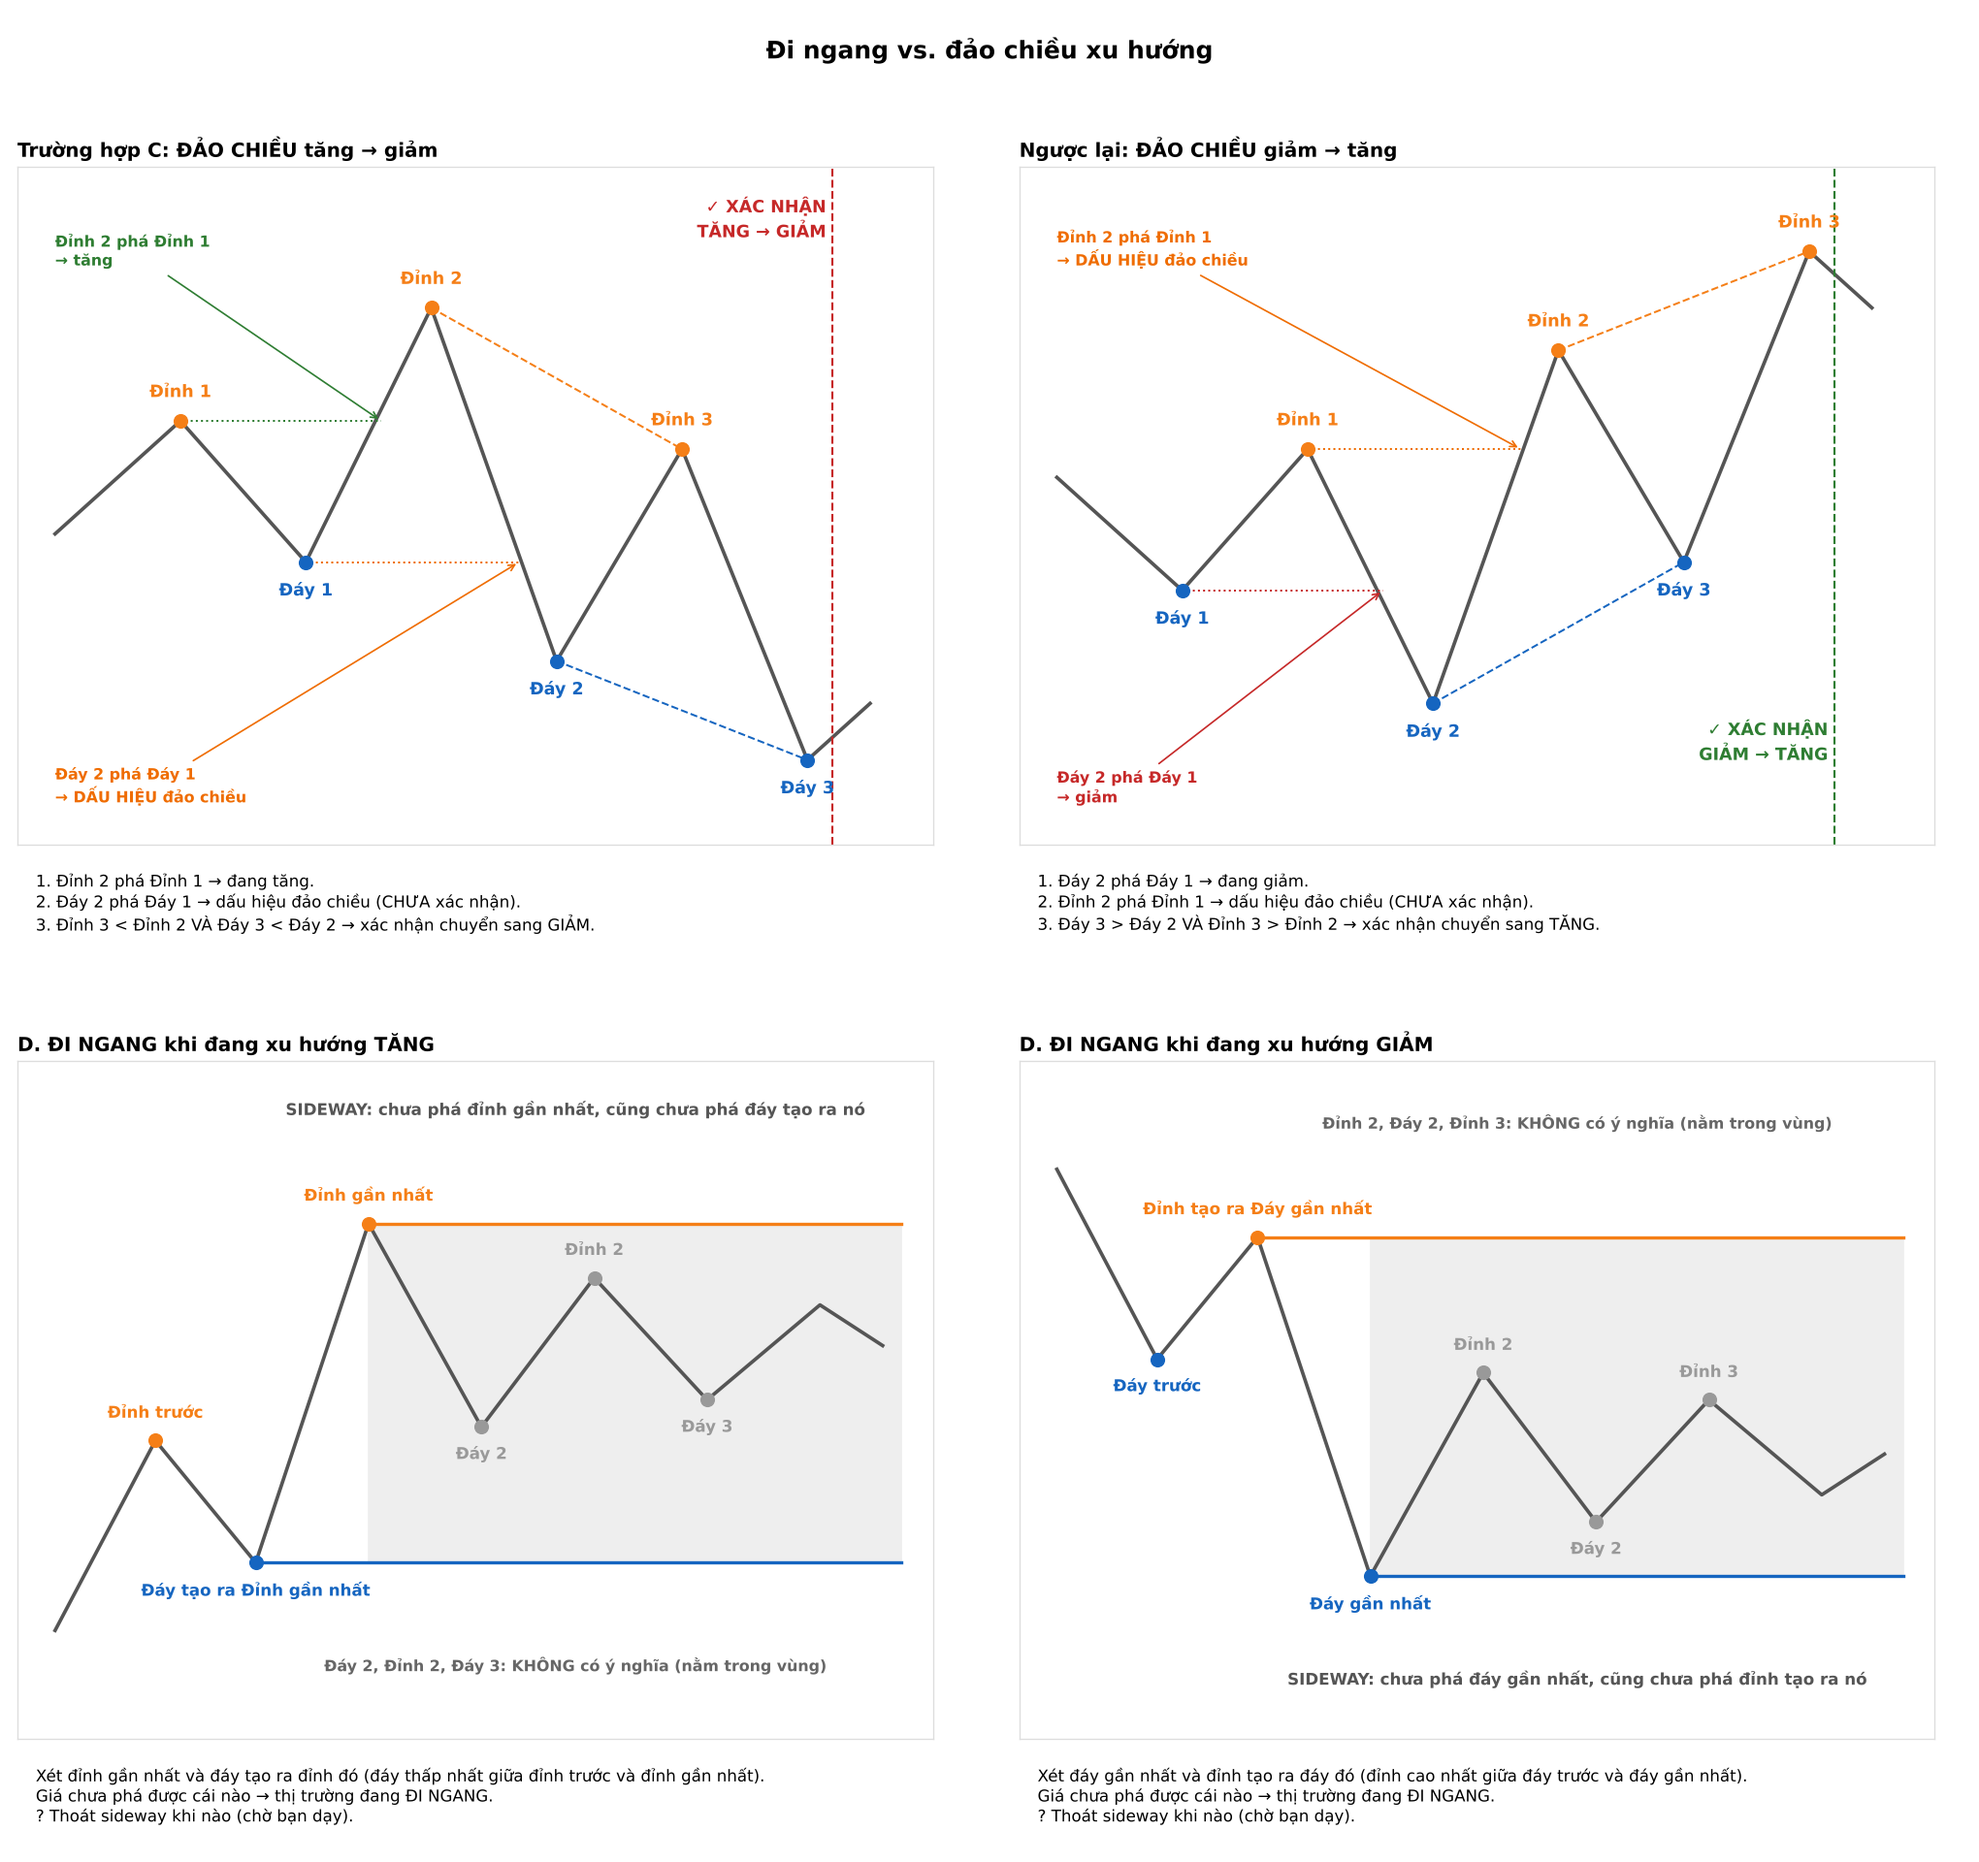
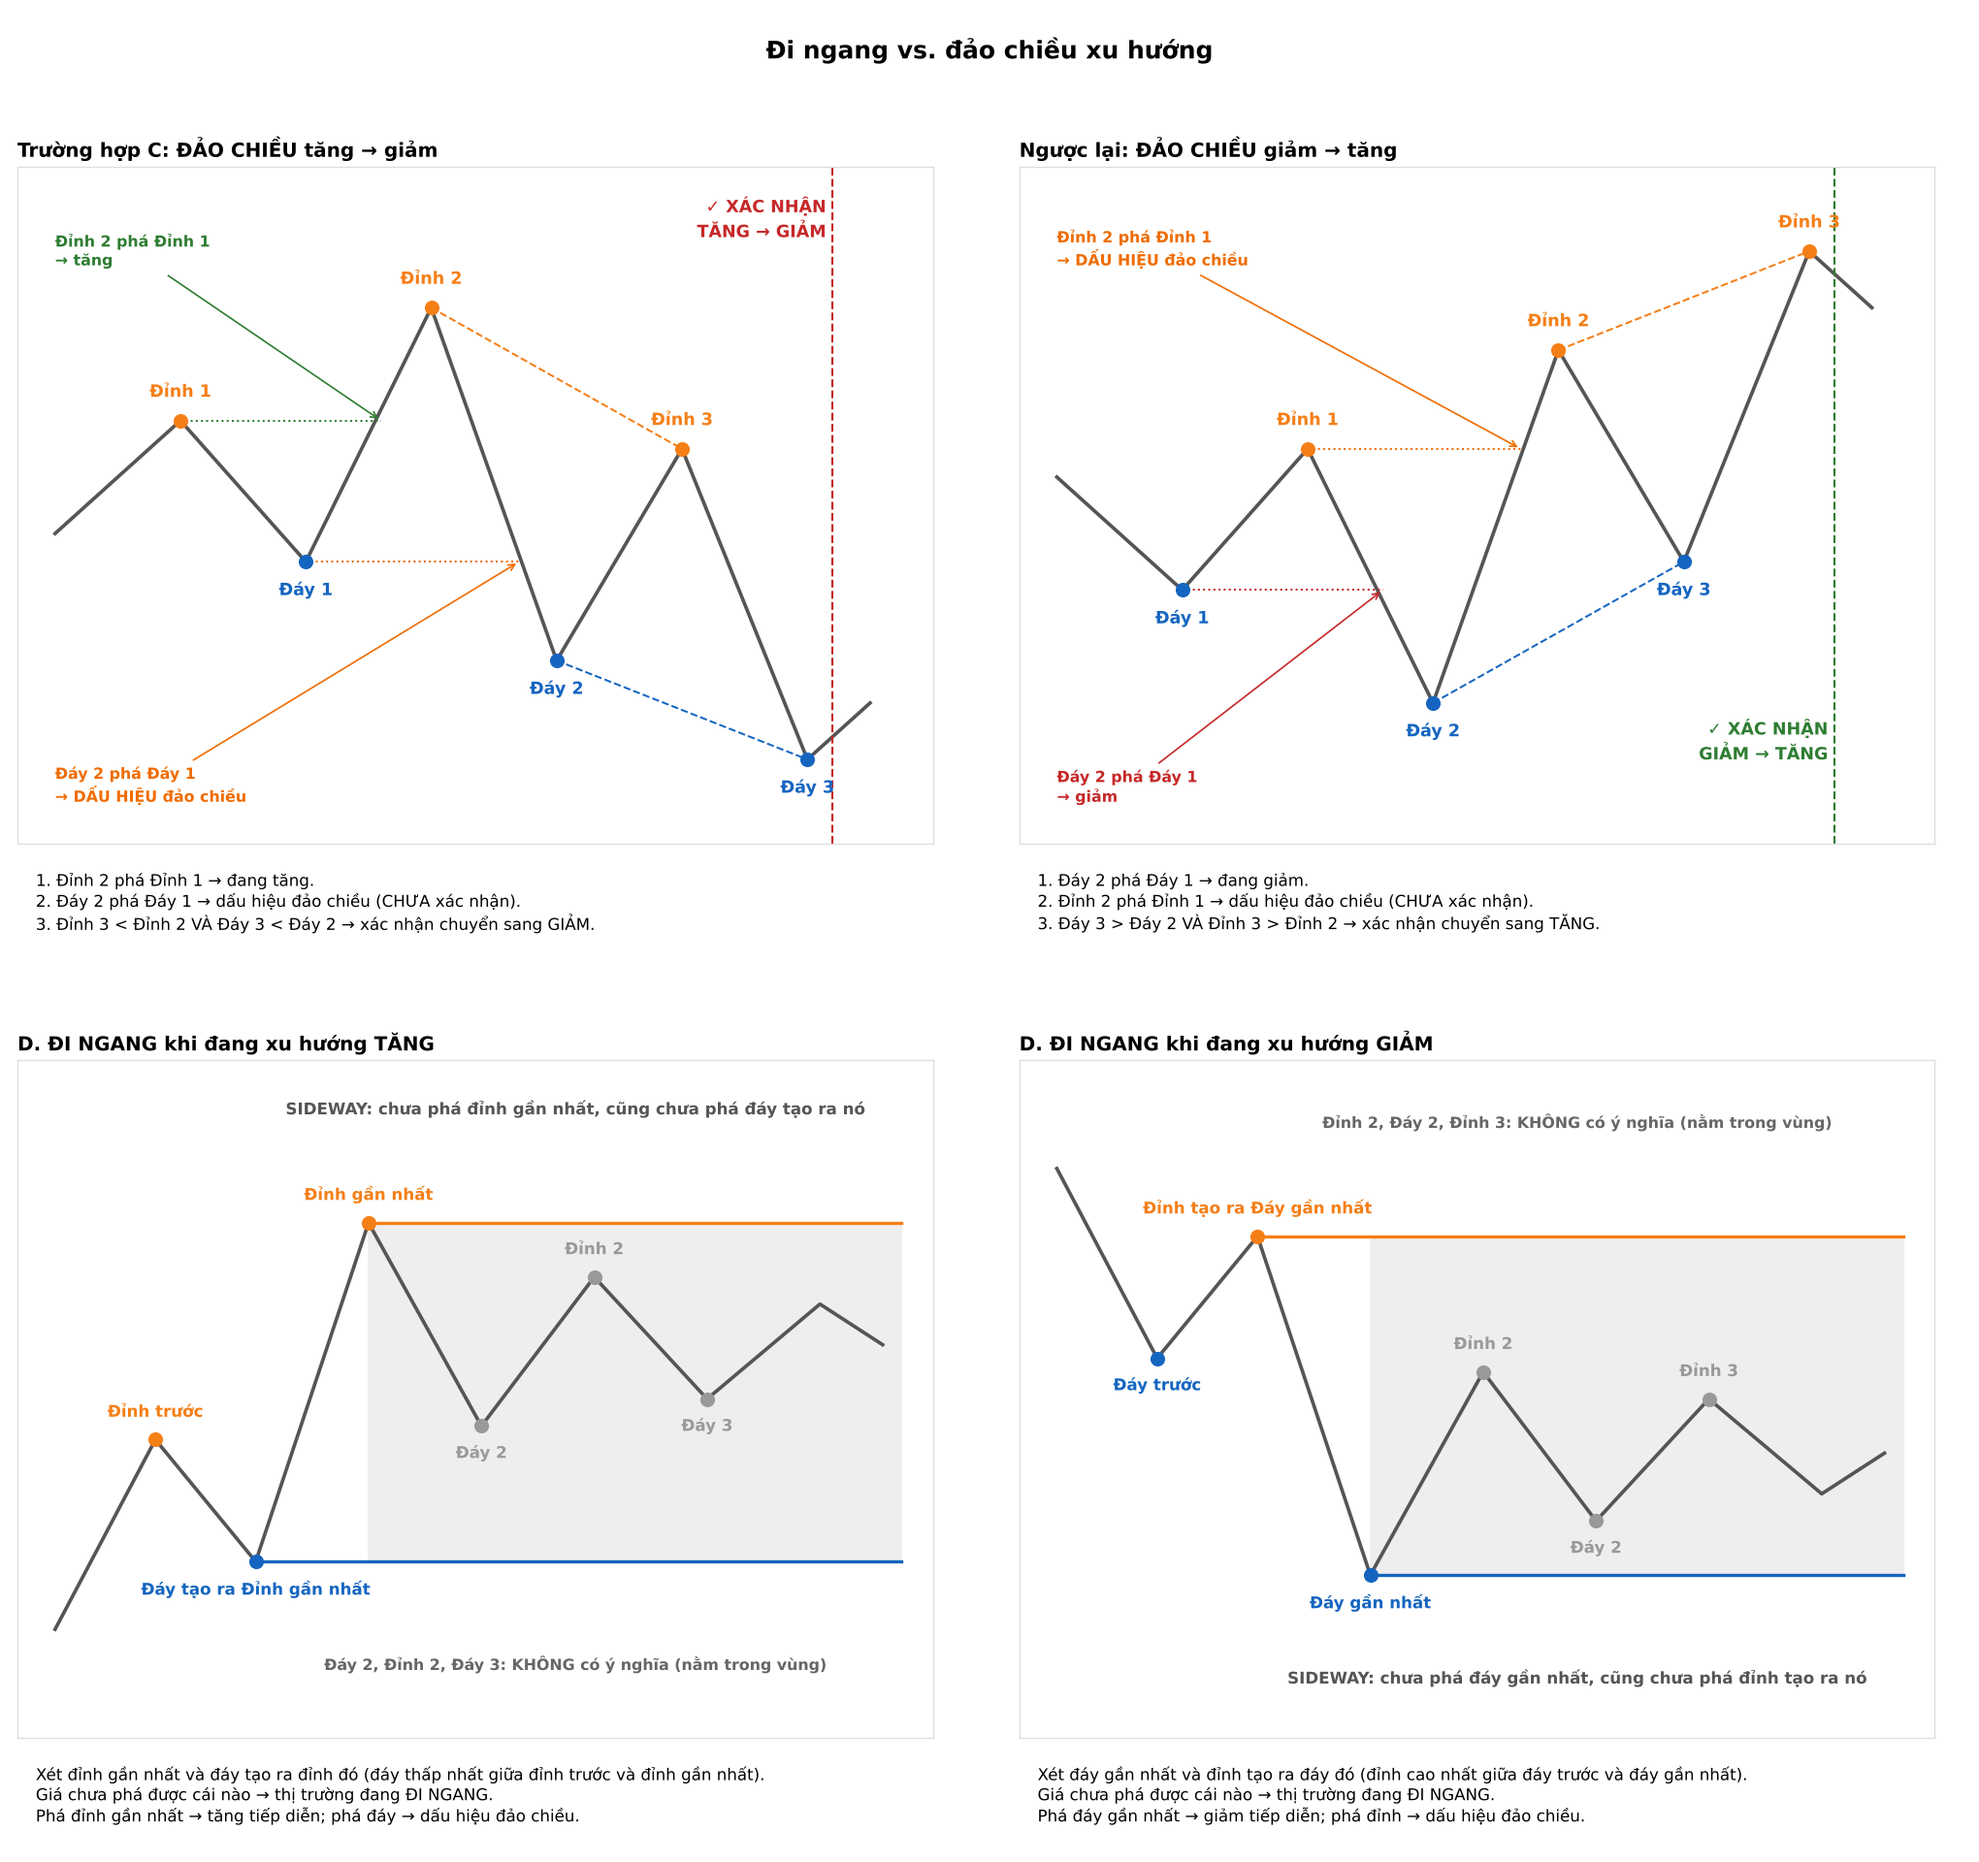
Chốt quy tắc thoát sideway: phá đỉnh/đáy gần nhất là tiếp diễn, phá phía còn lại là dấu hiệu đảo chiều
Claude-Session: https://claude.ai/code/session_01QDQqkxbAsnss6apbWZAP33

diff --git a/knowledge/03-setup.md b/knowledge/03-setup.md
@@ -73,10 +73,13 @@ Ví dụ chart thật: `examples/01-dinh-day-xauusd-h4.jpg`
   - Khi đang **xu hướng giảm**: ngược lại, xét **đáy gần nhất** và **đỉnh tạo ra đáy đó**.
   - Các đỉnh/đáy hình thành bên trong vùng này **không có ý nghĩa**.
   - Lưu ý: một đáy hình thành SAU đỉnh thì không phải "đáy tạo ra đỉnh" đó (lỗi trong cách vẽ ban đầu).
+  - **Thoát sideway (đã xác nhận)**, ví dụ khi đang xu hướng tăng:
+    - Nến có thân đóng cửa **trên đỉnh gần nhất** → thoát sideway, **xu hướng tăng tiếp diễn**.
+    - Nến có thân đóng cửa **dưới đáy tạo ra đỉnh đó** → **dấu hiệu đảo chiều** (như trường hợp C); xác nhận giảm khi có đỉnh thấp hơn VÀ đáy thấp hơn.
+    - Xu hướng giảm: làm ngược lại.
   - Minh họa: `examples/10-di-ngang-vs-dao-chieu.png`
 - **Thứ tự không quan trọng:** gặp đỉnh trước hay đáy trước đều được, miễn đủ 2 đỉnh + 2 đáy thỏa điều kiện (đã xác nhận, xem `examples/08-thu-tu-dinh-day.png`).
 - Minh họa: `examples/07-xac-dinh-xu-huong.png`
 
 **Chưa chốt:**
-- Thoát sideway khi nào? (vd: khi có nến có thân đóng cửa qua Đỉnh 1 hoặc Đáy 1?) Sau đó xác định xu hướng thế nào?
 - Trong lúc đã có dấu hiệu đảo chiều nhưng chưa xác nhận, thị trường được coi là trạng thái gì?
